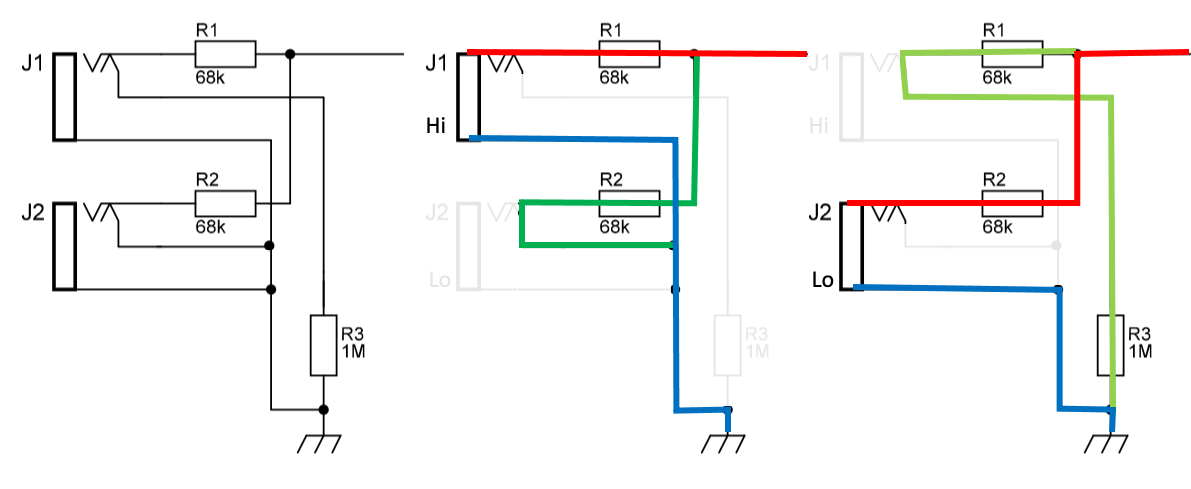
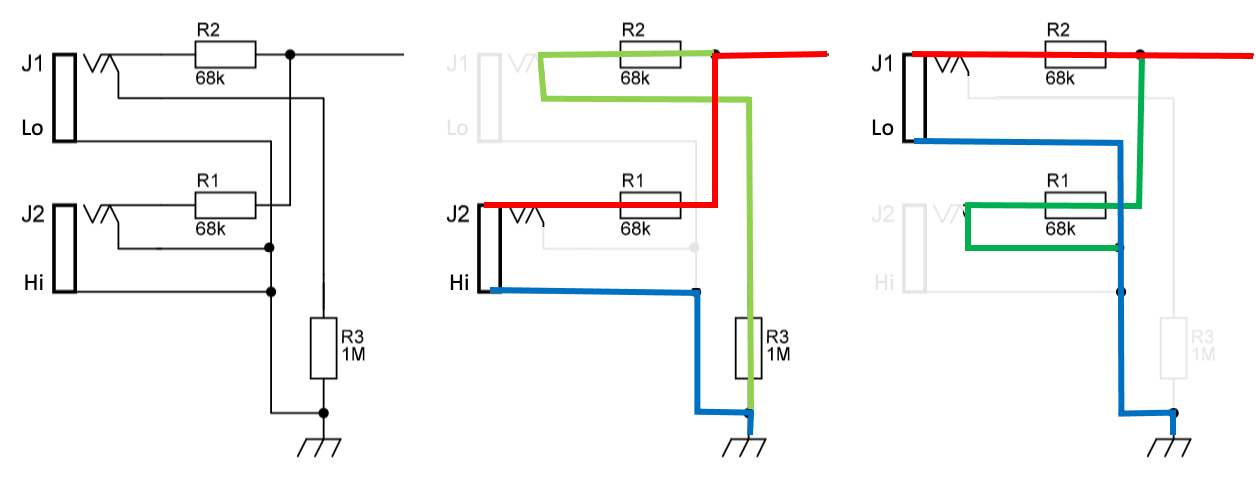
Swapped Hi and Lo

diff --git a/_pages/ac5/circuit.md b/_pages/ac5/circuit.md
@@ -44,6 +44,6 @@ The input stage circuit diagram is a bit confusing, because it makes use of the 
 
 ![](/assets/images/ac5/inputs.png)
 
-The actual circuits with a jack plugged into either the Lo(w) or Hi(gh) gain input sockets is displayed below. The High gain input uses a resistor devider network, so that the actual voltage that is received at the gate of the tube is half the original voltage. The Low gain input doesn't have a resistor devider network (theoretically it does, but the voltage drop of the 1Meg + 68k resistors is negligible). R2 (Hi) and R2+R3 (Lo) have a secundaire function: maintaining a ground reference for the grid (the green line). Without these reference to ground, the grid will gradually collect electrons traveling from the cathode to the plate, making it more positive and the pre amp won't work any more. Without any jack plugged in, both paths to ground are active, maintaining the ground reference. A problem might occur when both the Hi and Lo sockets are used, because in that case the ground reference depends on the instruments plugged in.
+The actual circuits with a jack plugged into either the Lo(w) or Hi(gh) gain input sockets is displayed in the [spice model](/assets/spice/inputs.asc) below. The Low gain input uses a resistor devider network, so that the actual voltage that is received at the gate of the tube is half the original voltage. The High gain input doesn't have a resistor divider network (theoretically it does, but the voltage drop of the 1Meg + 68k resistors is negligible). R2 (Lo) and R2+R3 (Hi) have a secundaire function: maintaining a ground reference for the grid (the green line). In most circumstances, a ground reference is available via the plugged in instrument so this is actually a safety measure. Without any reference to ground, the grid will gradually collect electrons traveling from the cathode to the plate, making it more positive and the pre amp won't work any more. Without any jack plugged in, both paths to ground are active, maintaining the ground reference. A problem might occur when both the Hi and Lo sockets are used, because in that case the ground reference depends on the instruments plugged in.
 
 ![](/assets/images/ac5/inputs.svg)
